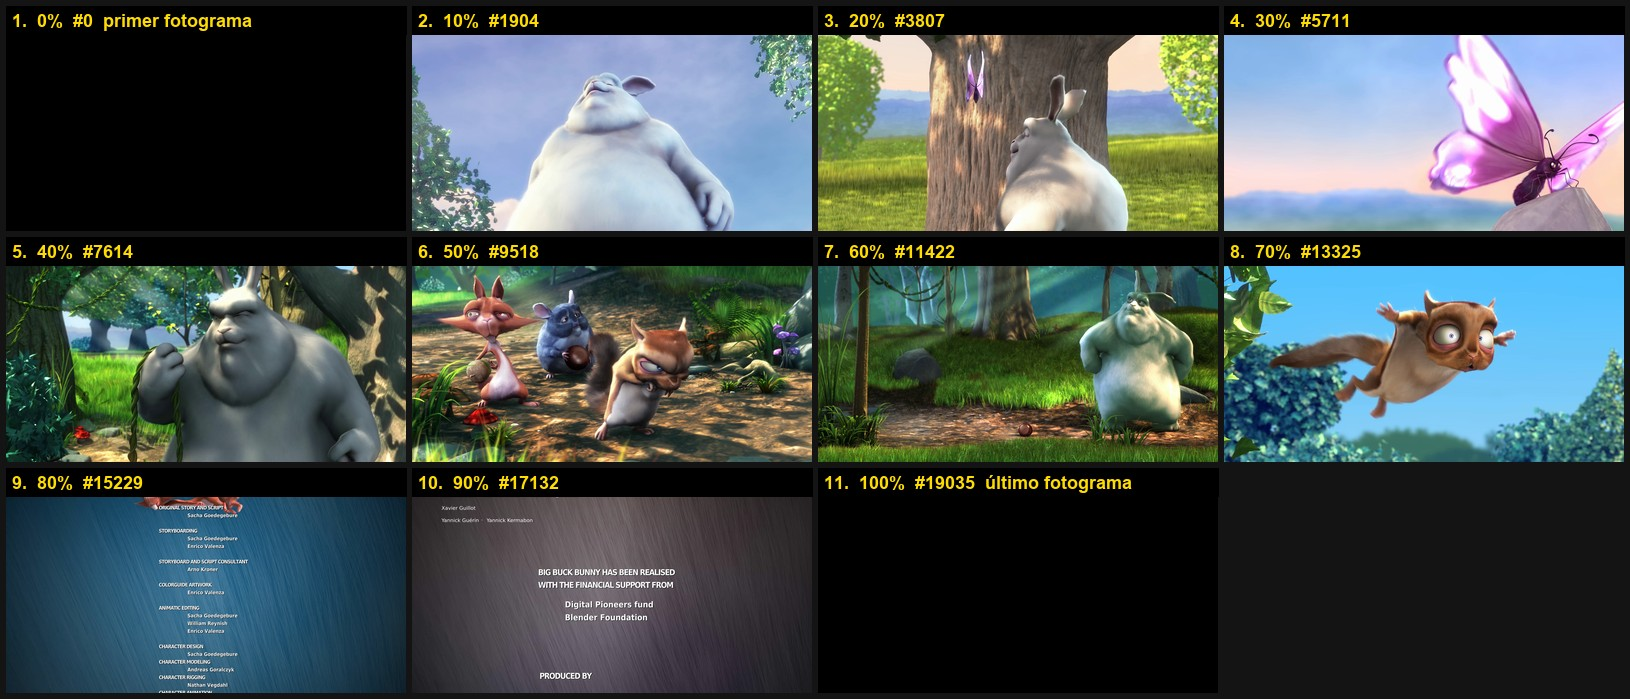
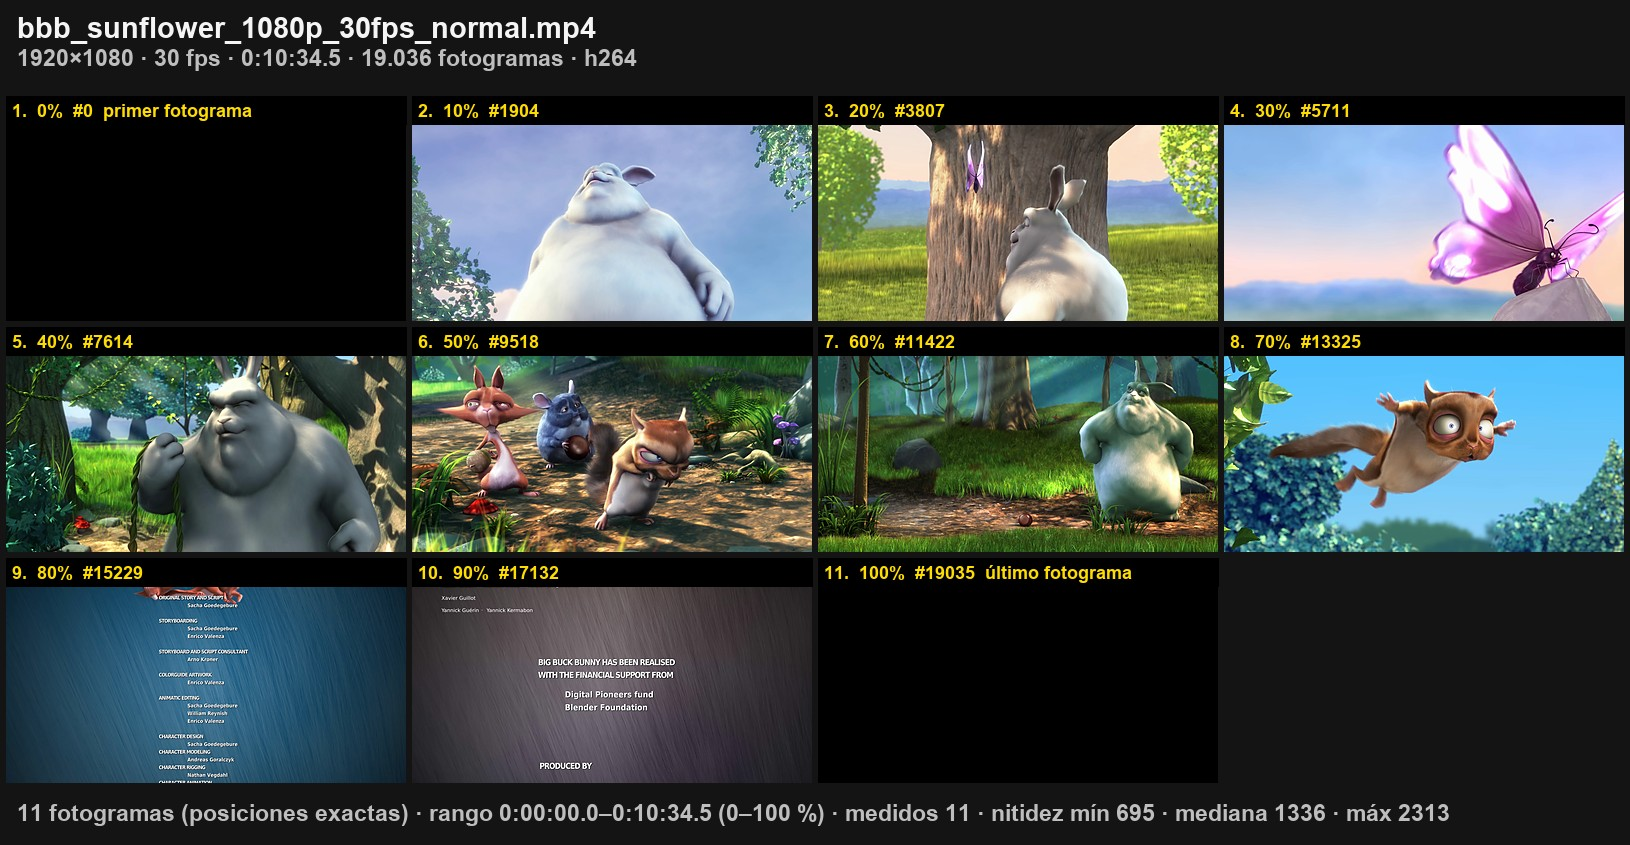
Hojas de contactos con cabecera, pie de datos y miniaturas más nítidas
- header (por defecto activado): datos del vídeo arriba — archivo, tamaño,
  fps, duración, nº de fotogramas y códec.
- footer (por defecto activado): lo que muestra la hoja abajo — fotogramas
  y modo, rango, fotogramas medidos, nitidez mín/mediana/máx, descartados y
  umbral; las mismas cifras que ya devolvía el JSON, ahora en la imagen.
- sharpen (0.5): máscara de enfoque tras reducir cada fotograma a su
  miniatura, que si no queda blanda; 0 la desactiva.
- README: parámetros nuevos y ejemplos regenerados con Big Buck Bunny.

diff --git a/server.py b/server.py
@@ -229,6 +229,9 @@ def video_contact_sheet(
     label_template: str | None = None,
     label_size: int | None = None,
     both_versions: bool = False,
+    header: bool = True,
+    footer: bool = True,
+    sharpen: float = 0.5,
     analysis_width: int = 480,
     jpeg_quality: int = 90,
     save_frames_dir: str | None = None,
@@ -266,7 +269,16 @@ def video_contact_sheet(
 
     Layout
       columns, thumb_width (px), gap_px (space between and around tiles, px),
-      background (#rrggbb), jpeg_quality (when out_png ends in .jpg).
+      background (#rrggbb), jpeg_quality (when out_png ends in .jpg; a .png
+      out_png is written lossless).
+      header        band on top with the video: file, size, fps, duration,
+                    frames, codec. Default True.
+      footer        band at the bottom with what the sheet shows: frames shown,
+                    range, frames measured, sharpness min/median/max, dropped
+                    frames and the threshold used. Default True.
+      sharpen       unsharp-mask strength after downscaling each frame to its
+                    tile (0 = off, 0.5 default, 1 = strong); keeps thumbnails
+                    crisp instead of soft.
 
     Labels
       label         True/False: draw the label bar on each tile.
@@ -360,9 +372,10 @@ def video_contact_sheet(
                  **({"anchor": anchors[i]} if i in anchors else {})} for i, t, sc, _ in order]
     for k, r in enumerate(rows_out, 1):
         r["index"] = k
+    how = "posiciones exactas" if exact else ("más nítido por tramo" if mode == "sharpest" else "repartidos")
     return _sheet(order, full, rows_out, (fields, label_template), out_png, both_versions, label, columns,
                   thumb_width, gap_px, background, label_size, jpeg_quality, dropped, t0, t1, dur, meta, thr,
-                  save_frames_dir, info)
+                  save_frames_dir, info, (header, footer, sharpen, how))
 
 
 def _select(video_path, t0, t1, fields, mode, count, interval_s, interval_pct, min_sharpness, min_sharpness_pct,
@@ -432,9 +445,16 @@ def _select(video_path, t0, t1, fields, mode, count, interval_s, interval_pct, m
     return kept, dropped, thr, meta, full
 
 
+def _hms(t: float) -> str:
+    return f"{int(t // 3600)}:{int(t % 3600 // 60):02d}:{t % 60:04.1f}"
+
+
 def _sheet(order, full, rows_out, fields, out_png, both_versions, label, columns, thumb_width, gap_px,
-           background, label_size, jpeg_quality, dropped, t0, t1, dur, meta, thr, save_frames_dir, info) -> str:
+           background, label_size, jpeg_quality, dropped, t0, t1, dur, meta, thr, save_frames_dir, info,
+           extras=(True, True, 0.5, "")) -> str:
     fields, template = fields
+    header, footer, sharpen, how = extras
+    sh = [m[2] for m in meta if m[2]]
     anchor_txt = {"first_frame": "primer fotograma", "last_frame": "último fotograma"}
 
     def text_for(r):
@@ -463,7 +483,10 @@ def _sheet(order, full, rows_out, fields, out_png, both_versions, label, columns
         for j, ((i, *_), r) in enumerate(zip(order, rows_out)):
             x = gap_px + (j % cols) * (tw + gap_px)
             y = gap_px + (j // cols) * (th + gap_px)
-            sheet.paste(full[i].resize((tw, th), Image.LANCZOS), (x, y))
+            thumb = full[i].resize((tw, th), Image.LANCZOS)
+            if sharpen > 0 and tw < full[i].width:          # downscaling softens: restore edge contrast
+                thumb = thumb.filter(ImageFilter.UnsharpMask(radius=1.0, percent=int(120 * sharpen), threshold=2))
+            sheet.paste(thumb, (x, y))
             if with_labels:
                 txt, ff, size = text_for(r), f, fs
                 while dr.textlength(txt, font=ff) > tw - 12 and size > max(9, fs * 0.6):   # shrink to fit the tile
@@ -472,7 +495,49 @@ def _sheet(order, full, rows_out, fields, out_png, both_versions, label, columns
                     txt = txt[:-2] + "…"
                 dr.rectangle((x, y, x + tw, y + fs + 10), fill=(0, 0, 0))
                 dr.text((x + 6, y + 4 + (fs - size) // 2), txt, font=ff, fill=(255, 220, 0))
-        return sheet
+        return frame_with_data(sheet)
+
+    def frame_with_data(sheet: Image.Image) -> Image.Image:
+        # The data the JSON already returns, on the image itself: the video on
+        # top, what this sheet shows at the bottom.
+        if not (header or footer):
+            return sheet
+        size = max(14, sheet.width // 70)
+        big, small = _font(round(size * 1.25)), _font(size)
+        pad, line = max(8, size // 2), round(size * 1.5)
+        top_lines = []
+        if header:
+            w, h = info.get("displayed_size") or info.get("size") or [0, 0]
+            parts = [f"{w}×{h}"] if w else []
+            if info.get("fps"): parts.append(f"{info['fps']:.3g} fps")
+            if dur: parts.append(_hms(dur))
+            if info.get("frames"): parts.append(f"{info['frames']:,} fotogramas".replace(",", "."))
+            if info.get("codec"): parts.append(info["codec"])
+            top_lines = [(Path(info.get("file", "")).name, big), (" · ".join(parts), small)]
+        bottom = []
+        if footer:
+            txt = [f"{len(rows_out)} fotogramas ({how})" if how else f"{len(rows_out)} fotogramas",
+                   f"rango {_hms(t0)}–{_hms(t1)}" + (f" ({100 * t0 / dur:.0f}–{100 * t1 / dur:.0f} %)" if dur else ""),
+                   f"medidos {len(meta):,}".replace(",", ".")]
+            if sh:
+                txt.append(f"nitidez mín {min(sh):.0f} · mediana {_percentile(sh, 50):.0f} · máx {max(sh):.0f}")
+            if dropped: txt.append(f"descartados {len(dropped)}")
+            if thr > 0: txt.append(f"umbral {thr:.0f}")
+            bottom = [(" · ".join(txt), small)]
+        head_h = (pad + round(size * 1.25) + pad // 2 + line + pad) if top_lines else 0
+        foot_h = (pad + line + pad) if bottom else 0
+        out = Image.new("RGB", (sheet.width, sheet.height + head_h + foot_h), _rgb(background))
+        out.paste(sheet, (0, head_h))
+        d = ImageDraw.Draw(out)
+        y = pad
+        for k, (text, font) in enumerate(top_lines):
+            d.text((pad + gap_px, y), text, font=font, fill=(245, 245, 245) if k == 0 else (190, 190, 190))
+            y += round(size * 1.25) + pad // 2 if k == 0 else line
+        for text, font in bottom:
+            while d.textlength(text, font=font) > sheet.width - 2 * pad and " · " in text:   # too long: drop from the end
+                text = text.rsplit(" · ", 1)[0]
+            d.text((pad + gap_px, head_h + sheet.height + pad), text, font=font, fill=(190, 190, 190))
+        return out
 
     out = Path(out_png).expanduser()
     written = {}
@@ -483,7 +548,6 @@ def _sheet(order, full, rows_out, fields, out_png, both_versions, label, columns
     else:
         _save(build(label), out, jpeg_quality); written["con_labels" if label else "sin_labels"] = str(out)
 
-    sh = [m[2] for m in meta if m[2]]
     return json.dumps({
         "images": written,
         "frames": rows_out,

diff --git a/README.md b/README.md
@@ -12,7 +12,7 @@ Servidor **MCP** (Model Context Protocol) que deja a un asistente como Claude **
 
 ### Ejemplo: un fotograma cada 10 % de la película (`step_pct: 10`)
 
-El servidor calcula las 11 posiciones (0 %, 10 %… 100 %) con la duración. El 0 % es exactamente el **primer fotograma** (#0, 0,0 s) y el 100 % el **último** (#19035 de 19036, 634,5 s). Etiquetas: índice, % y nº de fotograma (`label_fields: ["index", "pct", "frame", "anchor"]`).
+Arriba, los datos del vídeo; abajo, lo que muestra la hoja (las mismas cifras que devuelve el JSON). El servidor calcula las 11 posiciones (0 %, 10 %… 100 %) con la duración. El 0 % es exactamente el **primer fotograma** (#0, 0,0 s) y el 100 % el **último** (#19035 de 19036, 634,5 s). Etiquetas: índice, % y nº de fotograma (`label_fields: ["index", "pct", "frame", "anchor"]`).
 
 ![Hoja de contactos con etiquetas](docs/ejemplo_hoja_labels.jpg)
 
@@ -62,6 +62,7 @@ Otras peticiones que entiende:
 | «Uno cada 30 segundos, sin etiquetas y con un poco de separación» | `step_s: 30`, `label: false`, `gap_px: 8` |
 | «Solo del minuto 2 al 3, sin fotogramas repetidos» | `start_s: 120`, `end_s: 180`, `min_difference: 6` |
 | «Hazme las dos versiones, con y sin etiquetas» | `both_versions: true` → `<nombre>_labels.jpg` y `<nombre>_sin_labels.jpg` |
+| «Solo las imágenes, sin la cabecera ni el pie de datos» | `header: false`, `footer: false` |
 | «Dame el primer, el del medio y el último fotograma en grande» | `video_frames` con `positions_pct: [0, 50, 100]` |
 | «El fotograma del minuto 5, el más nítido de alrededor» | `video_frames` con `times_s: [300]`, `sharpest_within_s: 0.5` |
 
@@ -126,7 +127,10 @@ Genera una cuadrícula con fotogramas del vídeo. Tiene **tres formas de elegir*
 | | `thumb_width` | 480 | Ancho de cada miniatura, en px |
 | | `gap_px` | 0 | Espacio entre miniaturas y alrededor, en px |
 | | `background` | `#141414` | Color del fondo y del espacio entre miniaturas |
-| | `jpeg_quality` | 90 | Calidad si `out_png` termina en `.jpg` |
+| | `jpeg_quality` | 90 | Calidad si `out_png` termina en `.jpg` (con `.png` se guarda sin pérdida) |
+| | `header` | `true` | Cabecera con los datos del vídeo: archivo, tamaño, fps, duración, nº de fotogramas y códec |
+| | `footer` | `true` | Pie con lo que muestra la hoja: fotogramas, modo, rango, fotogramas medidos, nitidez mín/mediana/máx, descartados y umbral |
+| | `sharpen` | 0.5 | Enfoque tras reducir cada fotograma a miniatura (0 = sin enfoque, 1 = fuerte): las miniaturas no quedan blandas |
 | Etiquetas | `label` | `true` | Con o sin etiqueta en cada miniatura |
 | | `label_fields` | `["frame","time","sharpness","anchor"]` | Campos y orden: `index` (1., 2., 3.… posición en la hoja), `frame` (#123, nº de fotograma), `time` (63.5s), `pct` (10%), `sharpness` (valor), `sharpness_pct` (% respecto al más nítido elegido), `anchor` (*primer/último fotograma*) |
 | | `label_template` | – | Texto libre en vez de `label_fields`, p. ej. `"{index}. {pct}% · fotograma {frame}/{frames_total} · {time_hms}"`. Variables: `{index}` `{frame}` `{frames_total}` `{time}` `{time_hms}` `{pct}` `{pct1}` `{sharpness}` `{sharpness_pct}` `{anchor}` |
